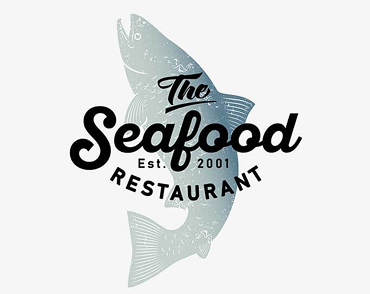
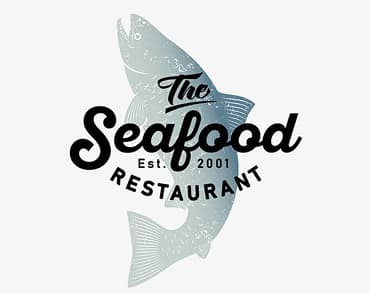
image optimization

diff --git a/index.html b/index.html
@@ -99,10 +99,10 @@
             <img class="srv-img" src="./img/img/it.jpg" alt="computer1" />
           </li>
           <li class="srv-item">
-            <img class="srv-img" src="./img/phone.png" alt="phone" />
+            <img class="srv-img" src="./img/img/phone.jpg" alt="phone" />
           </li>
           <li class="srv-item">
-            <img class="srv-img" src="./img/planshet.png" alt="planshet" />
+            <img class="srv-img" src="./img/planshet.jpg" alt="planshet" />
           </li>
         </ul>
         </div>
@@ -112,22 +112,22 @@
         <h2 class="team-subtitle">Наша команда</h2>
         <ul class="team-list">
           <li class="team-item">
-            <img class="team-img" src="./img/img/Igor.jpg" alt="men" />
+            <img class="team-img" src="./img/img/igor.jpg" alt="men" />
             <h3 class="team-name">Ігор Дем'яненко</h3>
             <p team-role>Product Designer</p>
           </li>
           <li class="team-item">
-            <img class="team-img" src="./img/img/Olga.jpg" alt="women" />
+            <img class="team-img" src="./img/img/olga.jpg" alt="women" />
             <h3 class="team-name">Ольга Рєпіна</h3>
             <p class="team-role">Frontend Developer</p>
           </li>
           <li class="team-item">
-            <img class="team-img" src="./img/img/Mykola.jpg" alt="men" />
+            <img class="team-img" src="./img/img/mykola.jpg" alt="men" />
             <h3 class="team-name">Микола Тарасов</h3>
             <p class="team-role">Marketing</p>
           </li>
           <li class="team-item">
-            <img class="team-img" src="./img/img/Myhaulo.jpg" alt="men" />
+            <img class="team-img" src="./img/img/myhaulo.jpg" alt="men" />
             <h3 class="team-name">Михайло Єрмаков</h3>
             <p class="team-role">UI Designer</p>
           </li>
@@ -137,7 +137,7 @@
     </main>
     <footer class="footer">
       <div class="cointaner">
-      <a href="./" class="footer-logo">Web<span class="logo-subtitle">Studio</span></a>
+      <a href="./" class="footer-logo">Web<span class="logo-footer">Studio</span></a>
       <address class="footer-addres">
         <ul class="footer-list">
           <li class="footer-item">

diff --git a/css/style.css b/css/style.css
@@ -32,8 +32,13 @@ body {
     padding-bottom: 25px;
 }
 
+
 .logo-subtitle {
     color:var(--text-subtitle-logo);
+}
+
+.logo-footer {
+    color: var(--text-footer);
 }
 
 .header-link {
@@ -64,16 +69,16 @@ body {
 
 .hero {
     background-color: var(--bg-hero);
-    padding-top: 200px;
-    padding-bottom: 280px;
+    padding-top: 207px;
+    padding-bottom: 273px; 
 }
 
 .hero-title {
     line-height: 1.4;
     font-size: 44px;
-    font-weight: 696;
+    font-weight: 696px;
     letter-spacing: 2.64px;
-    text-align: center;
+     text-align: center;
     text-transform: uppercase;
     color:var(--bg-header-text);
 }
@@ -156,6 +161,10 @@ body {
     padding-bottom: 94px;
 }
 
+.team-item {
+    box-shadow: 0 1px 3px 0 rgba(0, 0, 0, 0.12), 0 1px 1px 0 rgba(0, 0, 0, 0.14), 0 2px 1px 0 rgba(0, 0, 0, 0.20);
+}
+
 .team-subtitle {
     font-weight: 700;
     font-size: 36px;
@@ -188,7 +197,7 @@ body {
 .footer {
     background-color: var(--bg-footer);
     padding-top: 60px;
-    padding-bottom: 161px;
+    padding-bottom: 60px;
 }
 
 .footer-item {
@@ -198,6 +207,7 @@ body {
     letter-spacing: 0.42px;
     color:var(--text-footer);
 }
+
 
 .portfolio-button {
     line-height: 1.6;
@@ -224,10 +234,15 @@ body {
     height: 404px;
 }
 
+.projects-item:hover {
+    box-shadow: 0 1px 1px 0 rgba(0, 0, 0, 0.12), 0 4px 4px 0 rgba(0, 0, 0, 0.06), 1px 4px 6px 0 rgba(0, 0, 0, 0.16);
+}
+
 .projects-list {
      display:flex;
      flex-wrap: wrap;
     justify-content: center;
+    padding-bottom: 94px;
     gap: 30px;
 }
 
@@ -236,6 +251,7 @@ body {
     font-size: 18px;
     font-weight: 700;
     letter-spacing: 1.08px;
+    margin-left: 24px;
     color:var(--text-main);
 
 }
@@ -246,7 +262,7 @@ body {
     font-size: 16px;
     letter-spacing: 0.48px;
     color:var(--text-p);
-    margin-bottom: 94px;
+    margin-left: 24px;
 }
 
 .header-wrap .cointaner { 
@@ -267,7 +283,7 @@ body {
 
 .hero {
     display: flex;
-    flex-direction: column;
+    flex-direction:column;
     align-items: center;
     justify-content: center;
     gap: 30px;

diff --git a/portfolio.html b/portfolio.html
@@ -150,15 +150,15 @@
     </main>
     <footer class="footer">
       <div class="cointaner">
-        <a href="./" class="footer-logo">Web <span class="logo-subtitle">Studio</span></a>
+        <a href="./" class="footer-logo">Web <span class="logo-footer">Studio</span></a>
         <address class="footer-address">
           <ul class="footer-list">
             <li class="footer-item">
               <p class="footer-text">м.Київ,пр-т Лесі Українки,26</p>
             </li>
             <li class="footer-item">
-              <a href="mailto:info@devstudio.com" class="footer-link"
-                >info@devstudio.com</a
+              <a href="mailto:info@example.com" class="footer-link"
+                >info@example.com</a
               >
             </li>
             <li class="footer-item">

diff --git a/css/reset.css b/css/reset.css
@@ -3,6 +3,12 @@ ul, li {
     padding: 0;
 }
 
+p {
+    margin: 0;
+}
+
+
+
 a {
    text-decoration: none;
 }
